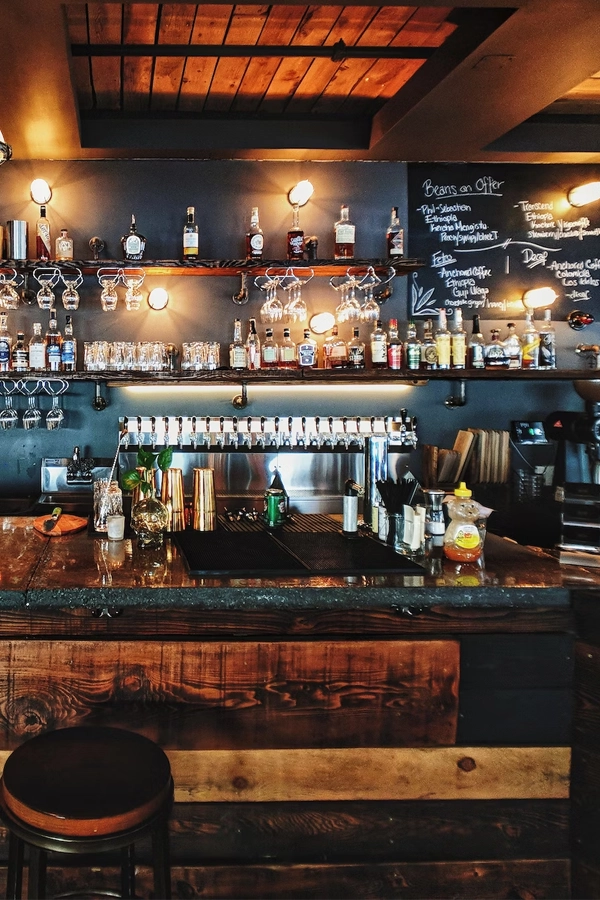
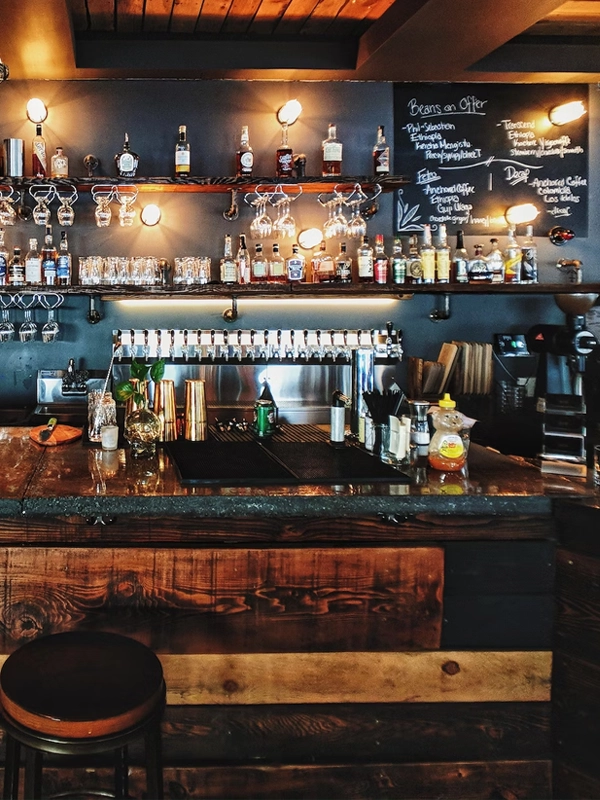
image

diff --git a/blog.html b/blog.html
@@ -35,7 +35,7 @@
                 <div class="heroimageblog">
                     <picture>
                         <!-- For mobile view (max-width: 600px), display the mobile image -->
-                        <source media="(max-width: 600px)" srcset="images/homepageheromobile.png" id="restaurantmobile">
+                        <source media="(max-width: 600px)" srcset="images/homepageheromobileopt.webp" id="restaurantmobile">
                         
                         <!-- For desktop view, display the original image -->
                         <img src="images/homepagehero.webp" id="restaurant" alt="This is a picture of inside the restaurant" width="1600px" height="600px">
